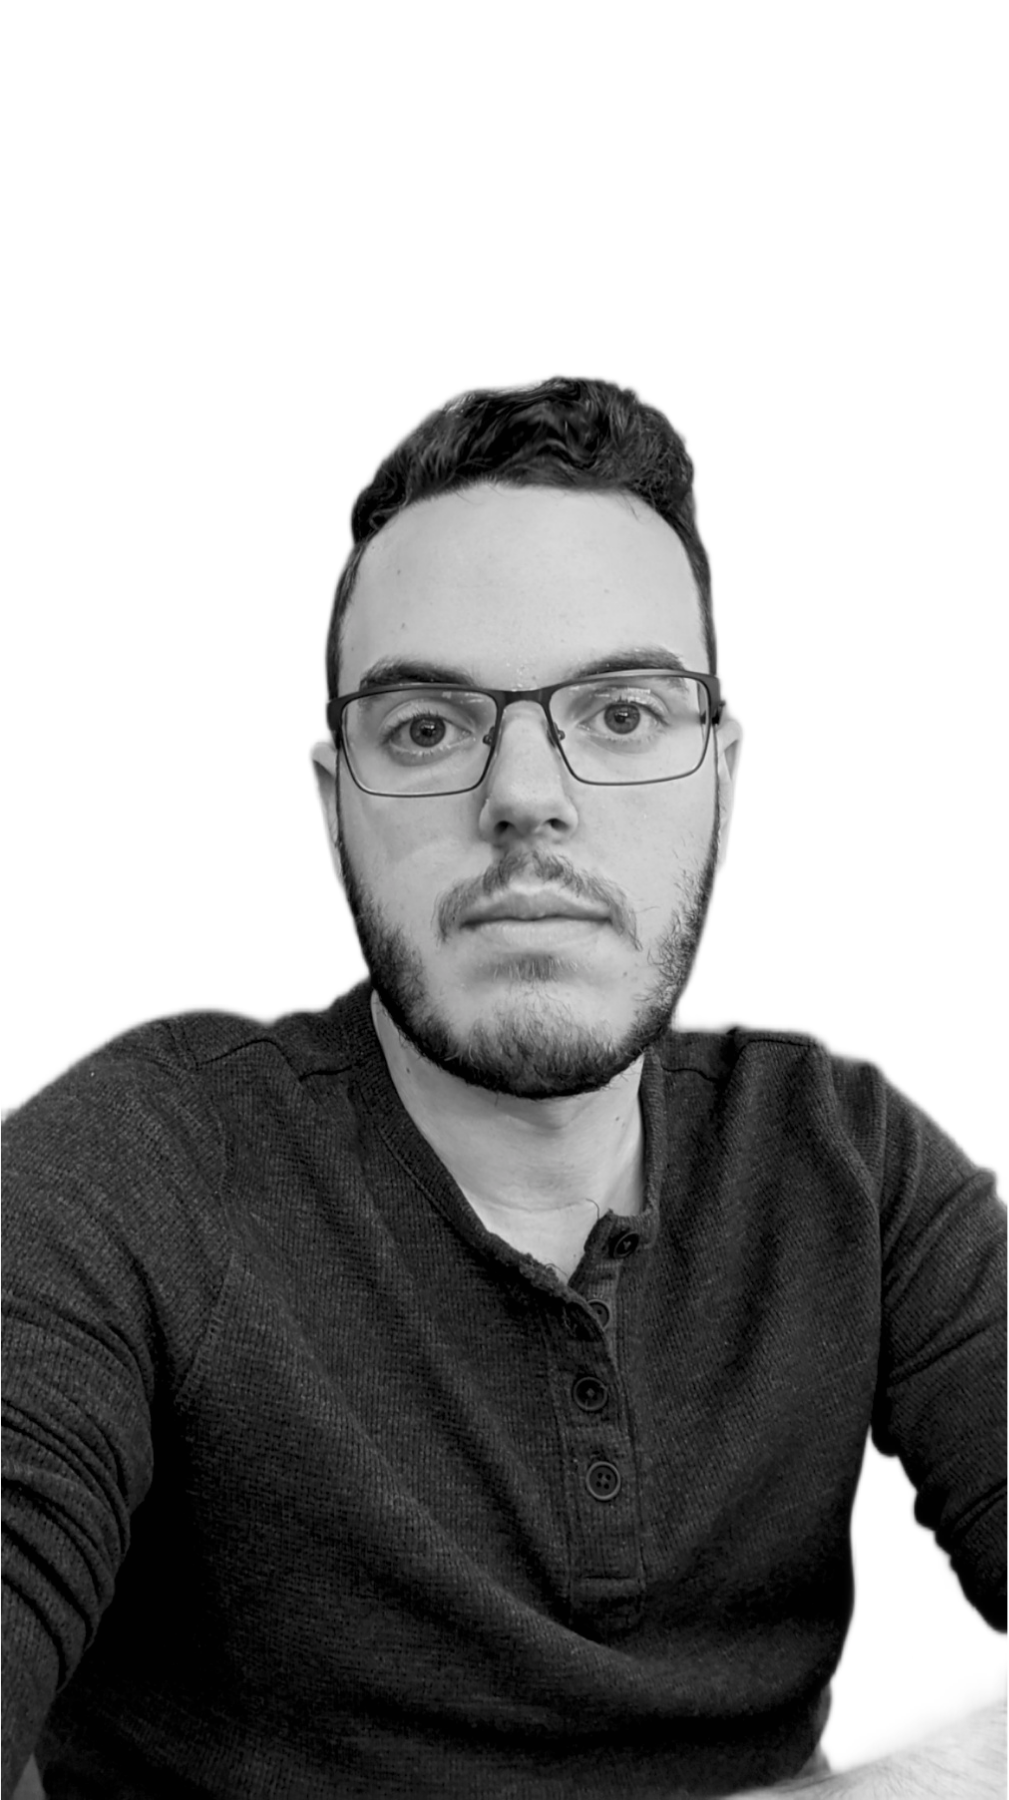
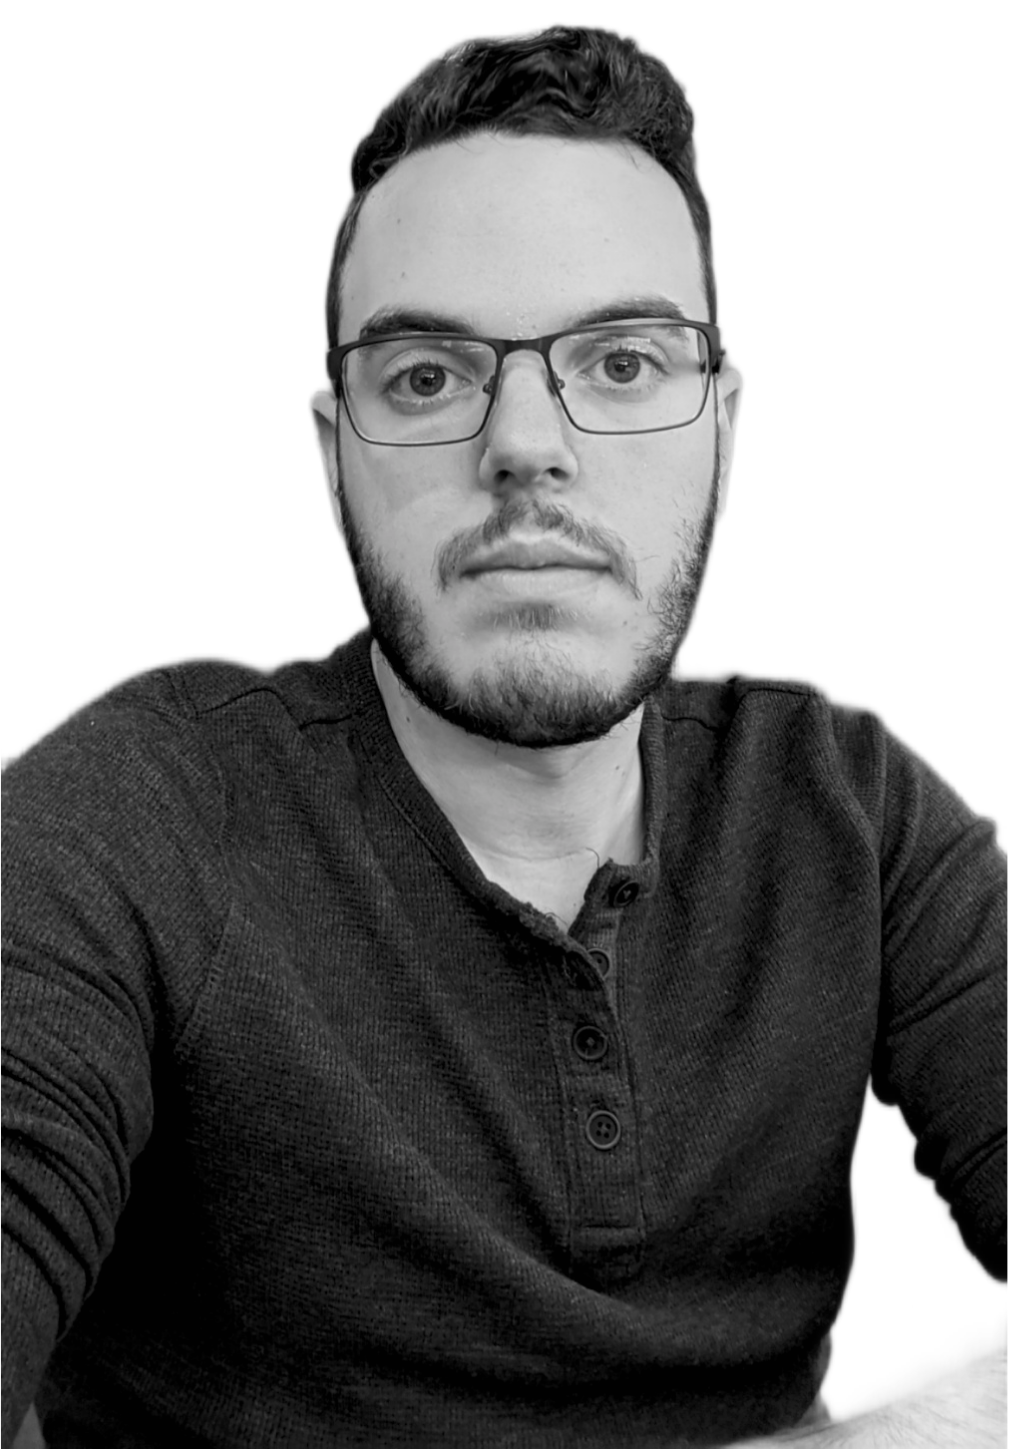
Added new elements and refactored appearance

diff --git a/index.html b/index.html
@@ -29,22 +29,14 @@
   <link rel="stylesheet" href="https://cdnjs.cloudflare.com/ajax/libs/font-awesome/4.7.0/css/font-awesome.min.css">
   <script src="./script.js"></script>
 </head>
+
 <body>
   <!-- Navigation Bar -->
   <nav>
-    <div id="home">
-      <img src="html_finalprojimages/ap.png" class="logo dh-hide"/>
+    <div id="header">
+      <img src="html_finalprojimages/ap2.png" class="logo dh-hide" />
       <div class="profile_name">
-        Athanasios Papias
-        <div class="contact_info">
-          <img src="html_finalprojimages/envelope.png" alt="https://icons8.com/icon/124377/circled-envelope" />
-          <a class="contact_info" href="mailto: thanasis-papias@gmail.com">thanasis-papias@gmail.com</a>
-        </div>
-        <div style="clear:both;"></div>
-        <div class="contact_info">
-          <img src="html_finalprojimages/linkedin.png" alt="https://icons8.com/icon/124377/circled-envelope" />
-          <a class="contact_info" href="https://www.linkedin.com/in/thanasis-papias/">linkedin.com/in/thanasis-papias</a>
-        </div>
+        Portfolio
       </div>
       <div class="topdiv dh-hide">
         <a class="topmenu" href="#about-me">About Me</a>
@@ -78,9 +70,6 @@
   <section id="about-me" class="container">
     <div class="columns">
       <div class="column_left fadeIn">
-        <img src="profile.png" class="profile_image" />
-      </div>
-      <div class="column_right fadeIn">
         <h1>
           Hello, I'm Thanasis.
         </h1>
@@ -88,6 +77,9 @@
           Hi, my name is Athanasios Papias. I'm an Entry-level Software Engineer, Hardware Engineer, Computer Science
           and IoT Developer.
         </p>
+      </div>
+      <div class="column_right fadeIn">
+        <img src="/html_finalprojimages/profile-pic.png" class="profile_image" />
       </div>
     </div>
   </section>
@@ -129,7 +121,7 @@
         </p>
         <h2>Education</h2>
         <h3>Computer Science Student (BSc, MSc)</h3>
-        <p><b>9/2016 - (Expected first half of 2023):</b><br> College Student of the Department of Computer Science and
+        <p><b>9/2016 - (Expected in 2023):</b><br> College Student of the Department of Computer Science and
           Engineering, University of Ioannina, Greece. <br>
           <br> <b>Intergrated MEng thesis topic: </b><br> Implementation of a Switched Mode Power Supply (SMPS),
           controlled by an STM32 microcontroller.
@@ -144,8 +136,8 @@
       <div class="column">
         <h2>Continuous Training</h2>
         <h3>Certificates</h3>
-        <p><b>16/02/2023 - Today:</b><br> IBM Full Stack Software Developer Certificate Courses. Currently acquirred 10
-          out of 12 certficates.
+        <p><b>02/2023 - 07/2023:</b><br> IBM Full Stack Software Developer Specialization Certificate, issued by
+          Coursera & IBM.
         </p>
         <h3>Competitions</h3>
         <p><b>15 - 17/9/2022</b><br> SAN 2022 (Society of Applied Neuroscience), Poster participation,
@@ -175,6 +167,25 @@
       </div>
     </div>
   </div>
+
+  <section id="main" class="container">
+    <section id="certifications">
+      <h2>Certifications</h2>
+      <div style="clear:both;"></div>
+      <h3>IBM Full Stack Software Developer Professional Certificate</h3>
+      <p>This Professional Certificate has equipped me with key skills and technical know-how to kickstart my career
+        as a Full-Stack Cloud Native Application Developer. Guided by IBM, I have learned to build my own cloud-based
+        applications
+        and work with the technologies behind them. This program consists of 10 courses with ample instructional
+        content.
+      </p>
+      <div class="fadeInUp" style="text-align: center;">
+        <a href="https://coursera.org/verify/professional-cert/TLQ2LPE4ZS2K">
+          <img class="paper" src="html_finalprojimages/Coursera.png" href="">
+        </a>
+      </div>
+    </section>
+  </section>
 
   <!-- Skills -->
   <section id="main" class="container">
@@ -408,89 +419,6 @@
     </section>
   </section>
 
-  <section id="main" class="container">
-    <section id="certifications">
-      <h2>Certifications</h2>
-      <div style="clear:both;"></div>
-      <h3>IBM Full Stack Software Developer Professional Certificate</h3>
-      <p>This Professional Certificate has equipped me with key skills and technical know-how to kickstart my career
-        as a Full-Stack Cloud Native Application Developer. Guided by IBM, I have learned to build my own cloud-based
-        applications
-        and work with the technologies behind them. This program consists of 10 courses with ample instructional
-        content.
-      </p>
-      <h3>{Completed}</h3>
-      <div class="all_certs fadeInUp">
-        <div class="cert">
-          <img src="html_finalprojimages/1.webp" />
-          <h4><a class="link"
-              href="https://www.coursera.org/account/accomplishments/certificate/8CPNEJT8KP29">Introduction to Cloud
-              Computing</a></h4>
-        </div>
-
-        <div class="cert">
-          <img src="html_finalprojimages/2.webp" />
-          <h4><a class="link"
-              href="https://www.coursera.org/account/accomplishments/certificate/5XCXS5MEEYCG">Introduction to Web
-              Development with HTML, CSS, JavaScript</a></h4>
-        </div>
-
-        <div class="cert">
-          <img src="html_finalprojimages/3.webp" />
-          <h4><a class="link" href="https://www.coursera.org/account/accomplishments/certificate/KNVP88BSE3YF">Getting
-              Started with Git and GitHub</a></h4>
-        </div>
-
-        <div class="cert">
-          <img src="html_finalprojimages/6.webp" />
-          <h4><a class="link"
-              href="https://www.coursera.org/account/accomplishments/certificate/W8ZYN9DC46SG">Developing Front-End Apps
-              with React</a></h4>
-        </div>
-
-        <div class="cert">
-          <img src="html_finalprojimages/5.webp" />
-          <h4><a class="link"
-              href="https://www.coursera.org/account/accomplishments/certificate/AJ2NV36GHALR">Developing Back-End Apps
-              with Node.js and Express</a></h4>
-        </div>
-
-        <div class="cert">
-          <img src="html_finalprojimages/python.webp" />
-          <h4><a class="link" href="https://www.coursera.org/account/accomplishments/certificate/U29AWMH6X9UZ">Python
-              for Data Science, AI & Development</a></h4>
-        </div>
-
-        <div class="cert">
-          <img src="html_finalprojimages/python.webp" />
-          <h4><a class="link" href="https://www.coursera.org/account/accomplishments/certificate/GVC6BTWMRGEQ">Python
-              Project for AI & Application Development</a></h4>
-        </div>
-
-        <div class="cert">
-          <img src="html_finalprojimages/4.webp" />
-          <h4><a class="link"
-              href="https://www.coursera.org/account/accomplishments/certificate/UNLNXGBQZTX3">Developing Applications
-              with SQL, Databases, and Django</a></h4>
-        </div>
-
-        <div class="cert">
-          <img src="html_finalprojimages/7.webp" />
-          <h4><a class="link"
-              href="https://www.coursera.org/account/accomplishments/certificate/MYQ8WMN7GFDT">Introduction to
-              Containers w/ Docker, Kubernetes & OpenShift</a></h4>
-        </div>
-
-        <div class="cert">
-          <img src="html_finalprojimages/8.webp" />
-          <h4><a class="link"
-              href="    https://www.coursera.org/account/accomplishments/certificate/774SV22XTYVM">Application
-              Development using Microservices and Serverless</a></h4>
-        </div>
-
-    </section>
-  </section>
-
   <!-- Projects -->
   <section id="main" class="container">
     <section class="projects" id="projects">
@@ -503,7 +431,7 @@
         <div class="project-card">
           <h3>NeuroSuitUp/Heroes Project</h3>
           <ul>
-            <li>Project about creating a wearable device for Neuro-rehabilitation. <a
+            <li>Project about creating a wearable device for Neuro-rehabilitation. <a class="link"
                 href="https://www.researchgate.net/publication/369229334_NeuroSuitUp_System_Architecture_Validation_of_a_Motor_Rehabilitation_Wearable_Robotics_Serious_Game_Platform">Read
                 more</a></li>
           </ul>
@@ -520,7 +448,8 @@
         <div class="project-card">
           <h3>ELEVIT Website</h3>
           <ul>
-            <li>Created <a href="https://www.elevit.org.gr">ELEVIT</a> website with the use of HTML5, CSS3/Bootstrap,
+            <li>Created <a class="link" href="https://www.elevit.org.gr">ELEVIT</a> website with the use of HTML5,
+              CSS3/Bootstrap,
               Javascript and Drupal 9.</li>
           </ul>
         </div>
@@ -544,7 +473,6 @@
   </section>
 
   <section id="main" class="container">
-
     <div class="iconbutton">
       <a href="#home">
         <svg xmlns="http://www.w3.org/2000/svg" fill="none" viewBox="0 0 24 23" stroke-width="1.5" stroke="white"

diff --git a/css/style.css b/css/style.css
@@ -8,12 +8,12 @@ body {
     "Lucida Sans", Arial, sans-serif;
 }
 
-#home {
-  background-color: #008f7b;
+#header {
+  background-color: white;
   margin: -0.5rem;
-  padding-top: 3rem;
+  padding-top: 1.5rem;
   padding-bottom: 8rem;
-  height: 3rem;
+  height: 1rem;
 }
 
 #footer {
@@ -96,7 +96,7 @@ body {
 
 .topmenu {
   vertical-align: auto;
-  color: lightgray;
+  color: gray;
   margin-top: 1rem;
   margin: 1rem;
   padding:1rem;
@@ -105,7 +105,7 @@ body {
 }
 
 .topmenu:hover {
-  color: white;
+  color: lightgray;
 }
 
 .topdiv {
@@ -125,7 +125,7 @@ body {
   padding-left: 3rem;
   padding-top: 2rem;
   float: left;
-  color: #e8e8e8;
+  color: #008f7b;
   font-size: 40px;
 }
 
@@ -196,8 +196,10 @@ p {
 }
 
 .profile_image {
-  width: 20rem;
+  width: 30rem;
+  max-width: 95%;
   height: fit-content;
+  border-radius: 10px;
 }
 
 .box {
@@ -258,14 +260,15 @@ p {
 }
 
 .column_left {
-  flex: 25%;
-  text-align: left;
-  margin: auto;
+  flex: 30%;
+  text-align: right;
+  margin-top: auto;
+  margin-bottom: 1.5rem;
 }
 
 .column_right {
-  flex: 50%;
-  text-align: left;
+  flex: 30%;
+  text-align: center;
   margin: auto;
 }
 

diff --git a/css/achievements.css b/css/achievements.css
@@ -72,58 +72,24 @@
 
 /* Certifications */
 
-.all_certs {
-  display: flex;
-  flex-direction: row;
-  flex-flow: wrap;
-  justify-content: center;
-}
-
-.cert {
+.paper {
   border: 1px solid gray;
-  display: block;
   border-radius: 10px;
   text-align: center;
-  margin: 25px;
+  margin: 2rem;
   padding: 10px;
-  width: 6.5cm;
+  max-width: 95%;
+  width:60rem;
   font-size: 20px;
   box-shadow: 0 3px 10px gray;
 }
 
-.cert:hover {
-  animation: bounce_614 0.4s linear;
-}
-
-.cert img {
-  max-height: 130px;
-  max-width: 130px;
-  padding: 0.5cm;
-  align-items: center;
-}
-
-.cert h6 {
-  align-items: center;
-  font-size: 30px;
-  margin-block-start: 8px;
-  margin-block-end: 5px;
-  font-weight: bold;
-}
-
-.cert p {
-  align-items: center;
-  font-size: 20px;
-  color: gray;
-  margin-block-start: 5px;
-  margin-block-end: 5px;
-}
-
 .link {
-  color: #343434;
+  color: #707070;
   font-size: 20px;
   text-decoration: none;
 }
 
 .link:hover {
-  color: gray;
+  color: lightgray;
 }

diff --git a/css/menu.css b/css/menu.css
@@ -20,7 +20,7 @@
   color: white;
   position: fixed;
   width: 40px;
-  top: 10px;
+  top: 15px;
   right: 0px;
   display: none;
   border: none;
